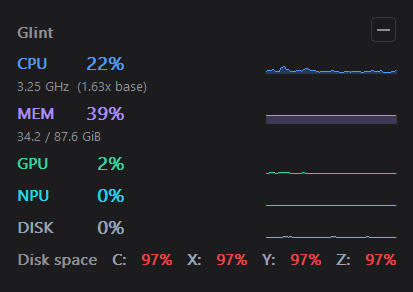
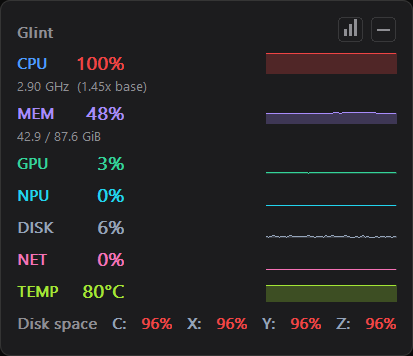
Refresh the README images for the Network and Temp rows
Captured with seven strips and the Task Manager button. Other sessions held
the CPU at 100%, so the demo shows a download moving the network strip rather
than the CPU climbing from idle.

diff --git a/README.md b/README.md
@@ -6,13 +6,12 @@ with the numbers behind it. Pick which measurements to show from the right
 click menu; both the icon and the window follow. The window stays open and on
 top until it is minimized, and a hidden window costs almost nothing.
 
-![The glint window and its tray icon climbing to red under load, then falling back to idle](docs/demo.gif)
+![The glint window and its tray icon under load while a download moves the network strip](docs/demo.gif)
 
 The tray strip under the window is shown at 3x. Seven strips, top to bottom: CPU, memory, GPU, NPU, disk activity, network, temperature.
 Each fills to its current reading and turns amber at 80% (80 °C for temperature) and red at 95%. Hover for the numbers.
 Network is the busiest adapter's share of its link speed, so it reads low on a fast link. Temp is the hottest
-firmware thermal zone, not the CPU die, which Windows does not expose without a driver. The images below
-were captured before those two were added and show five strips.
+firmware thermal zone, not the CPU die, which Windows does not expose without a driver.
 
 ![Glint window](docs/screenshot.png)
 
